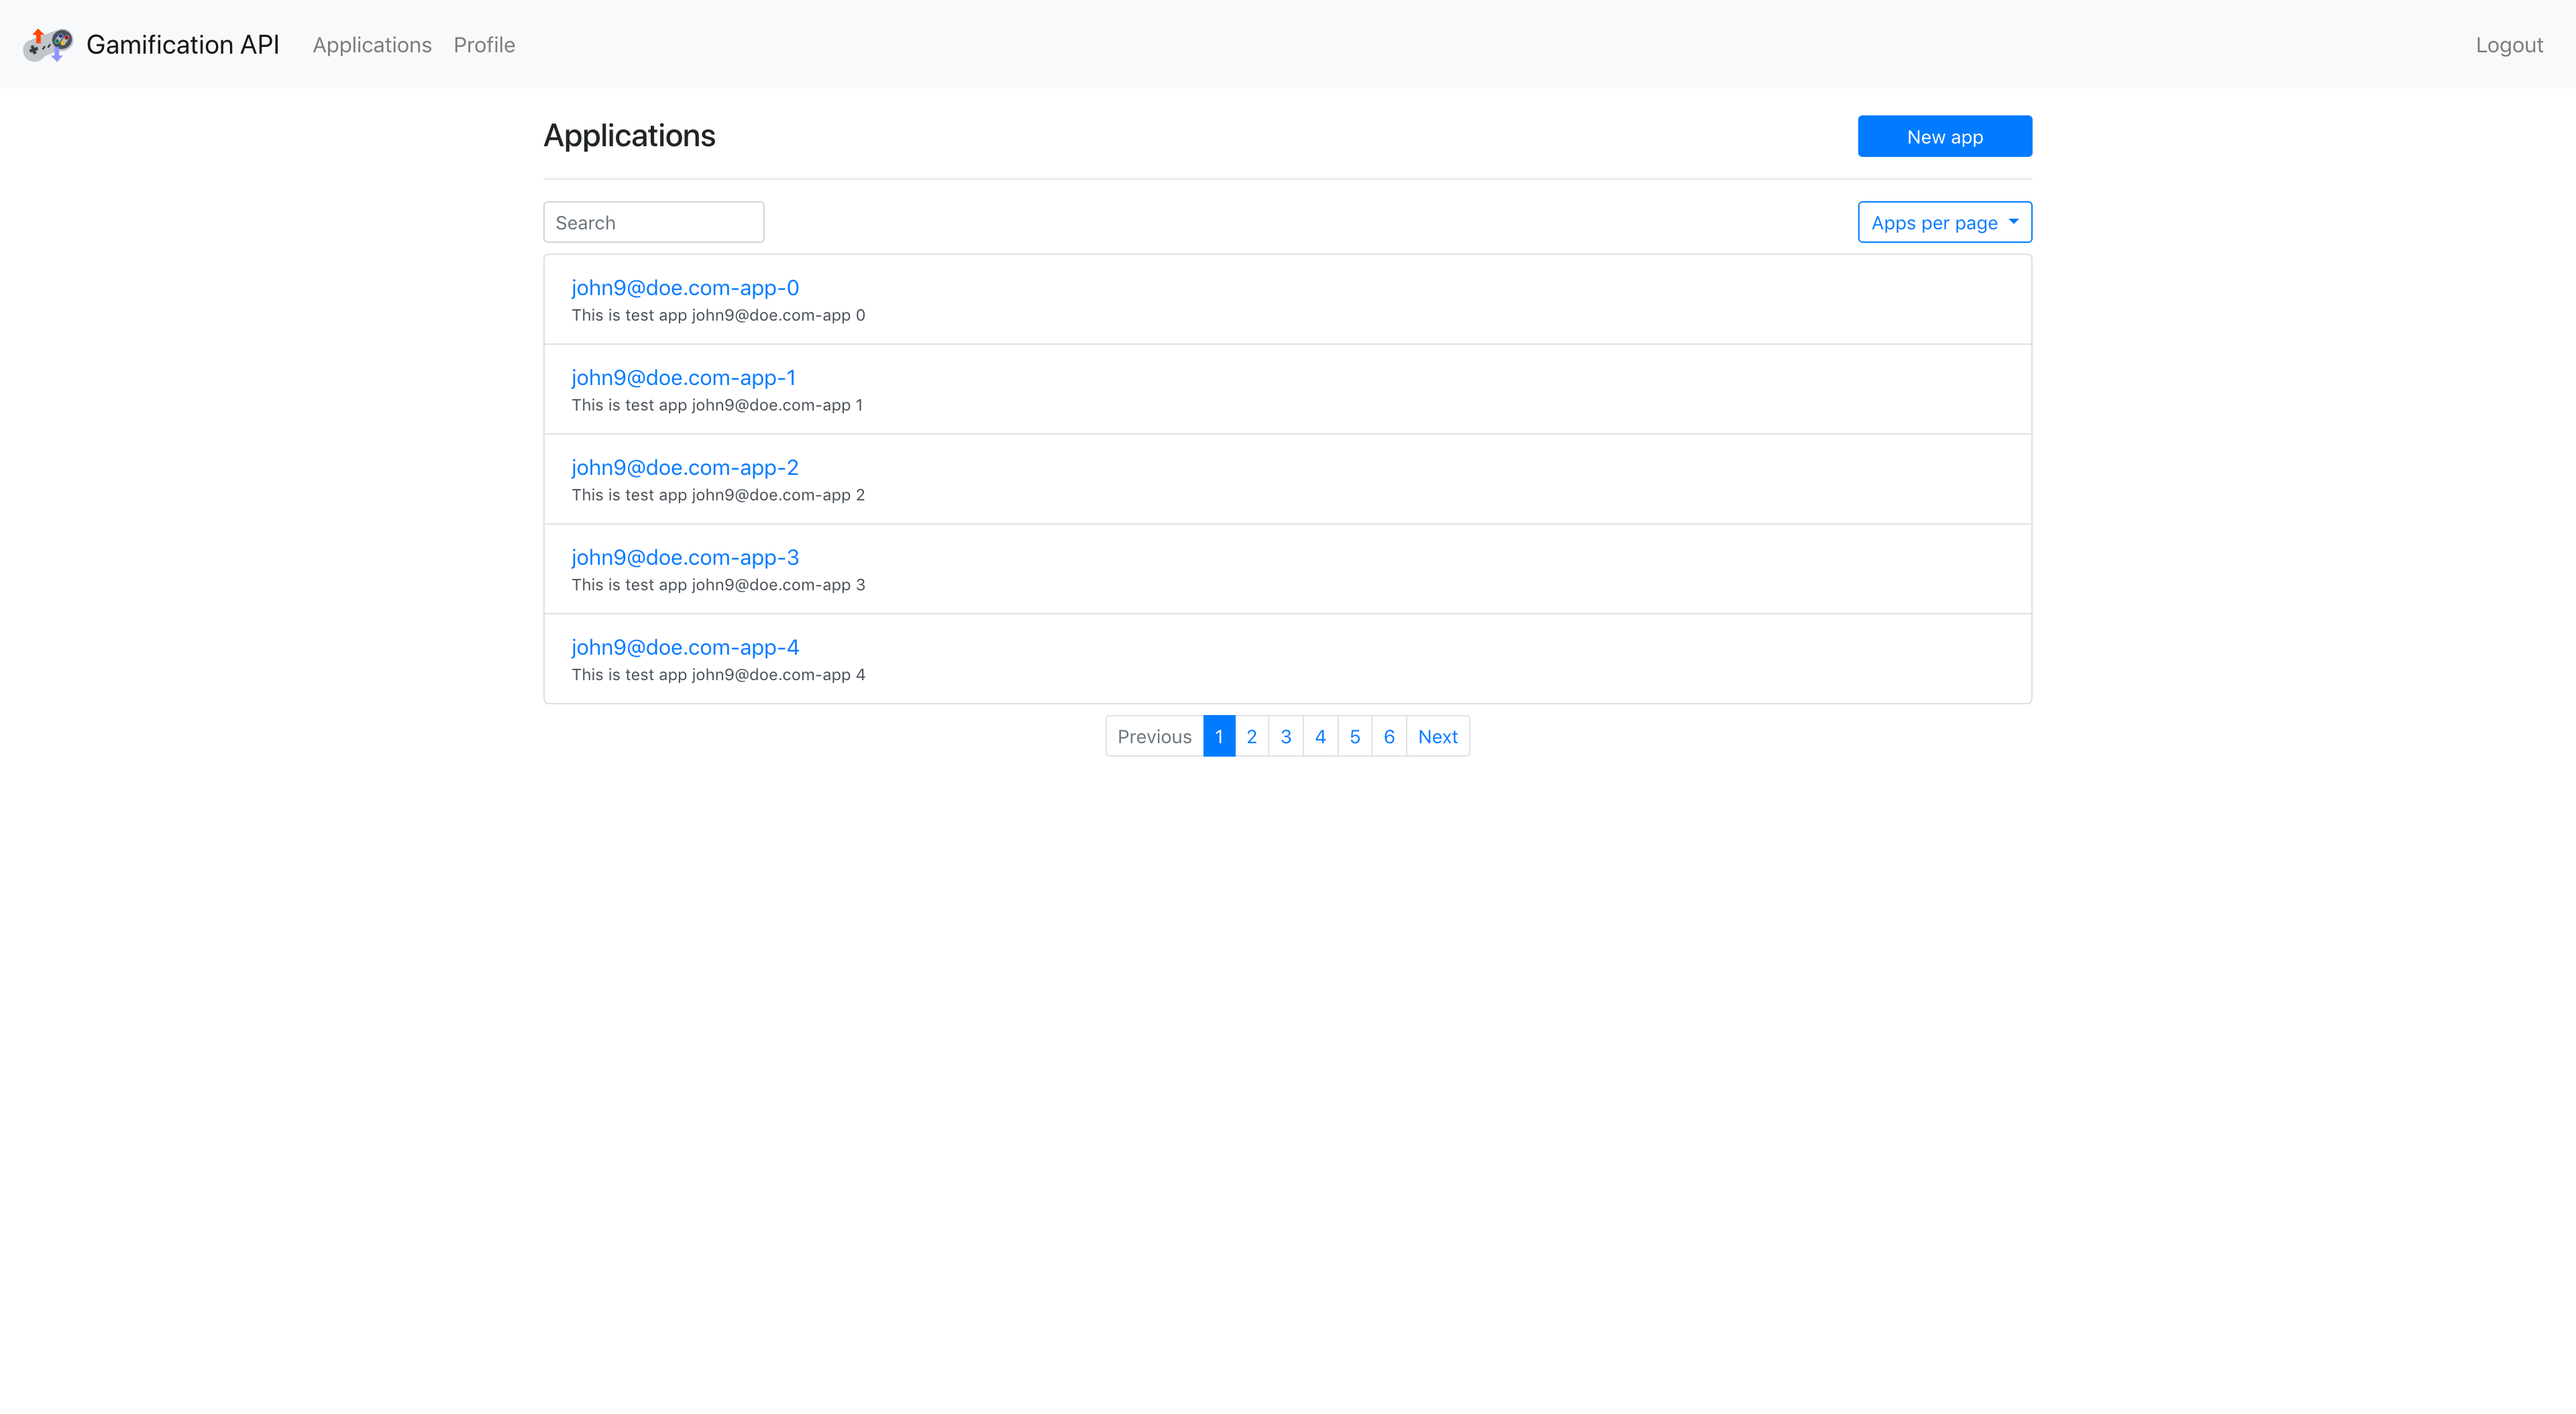
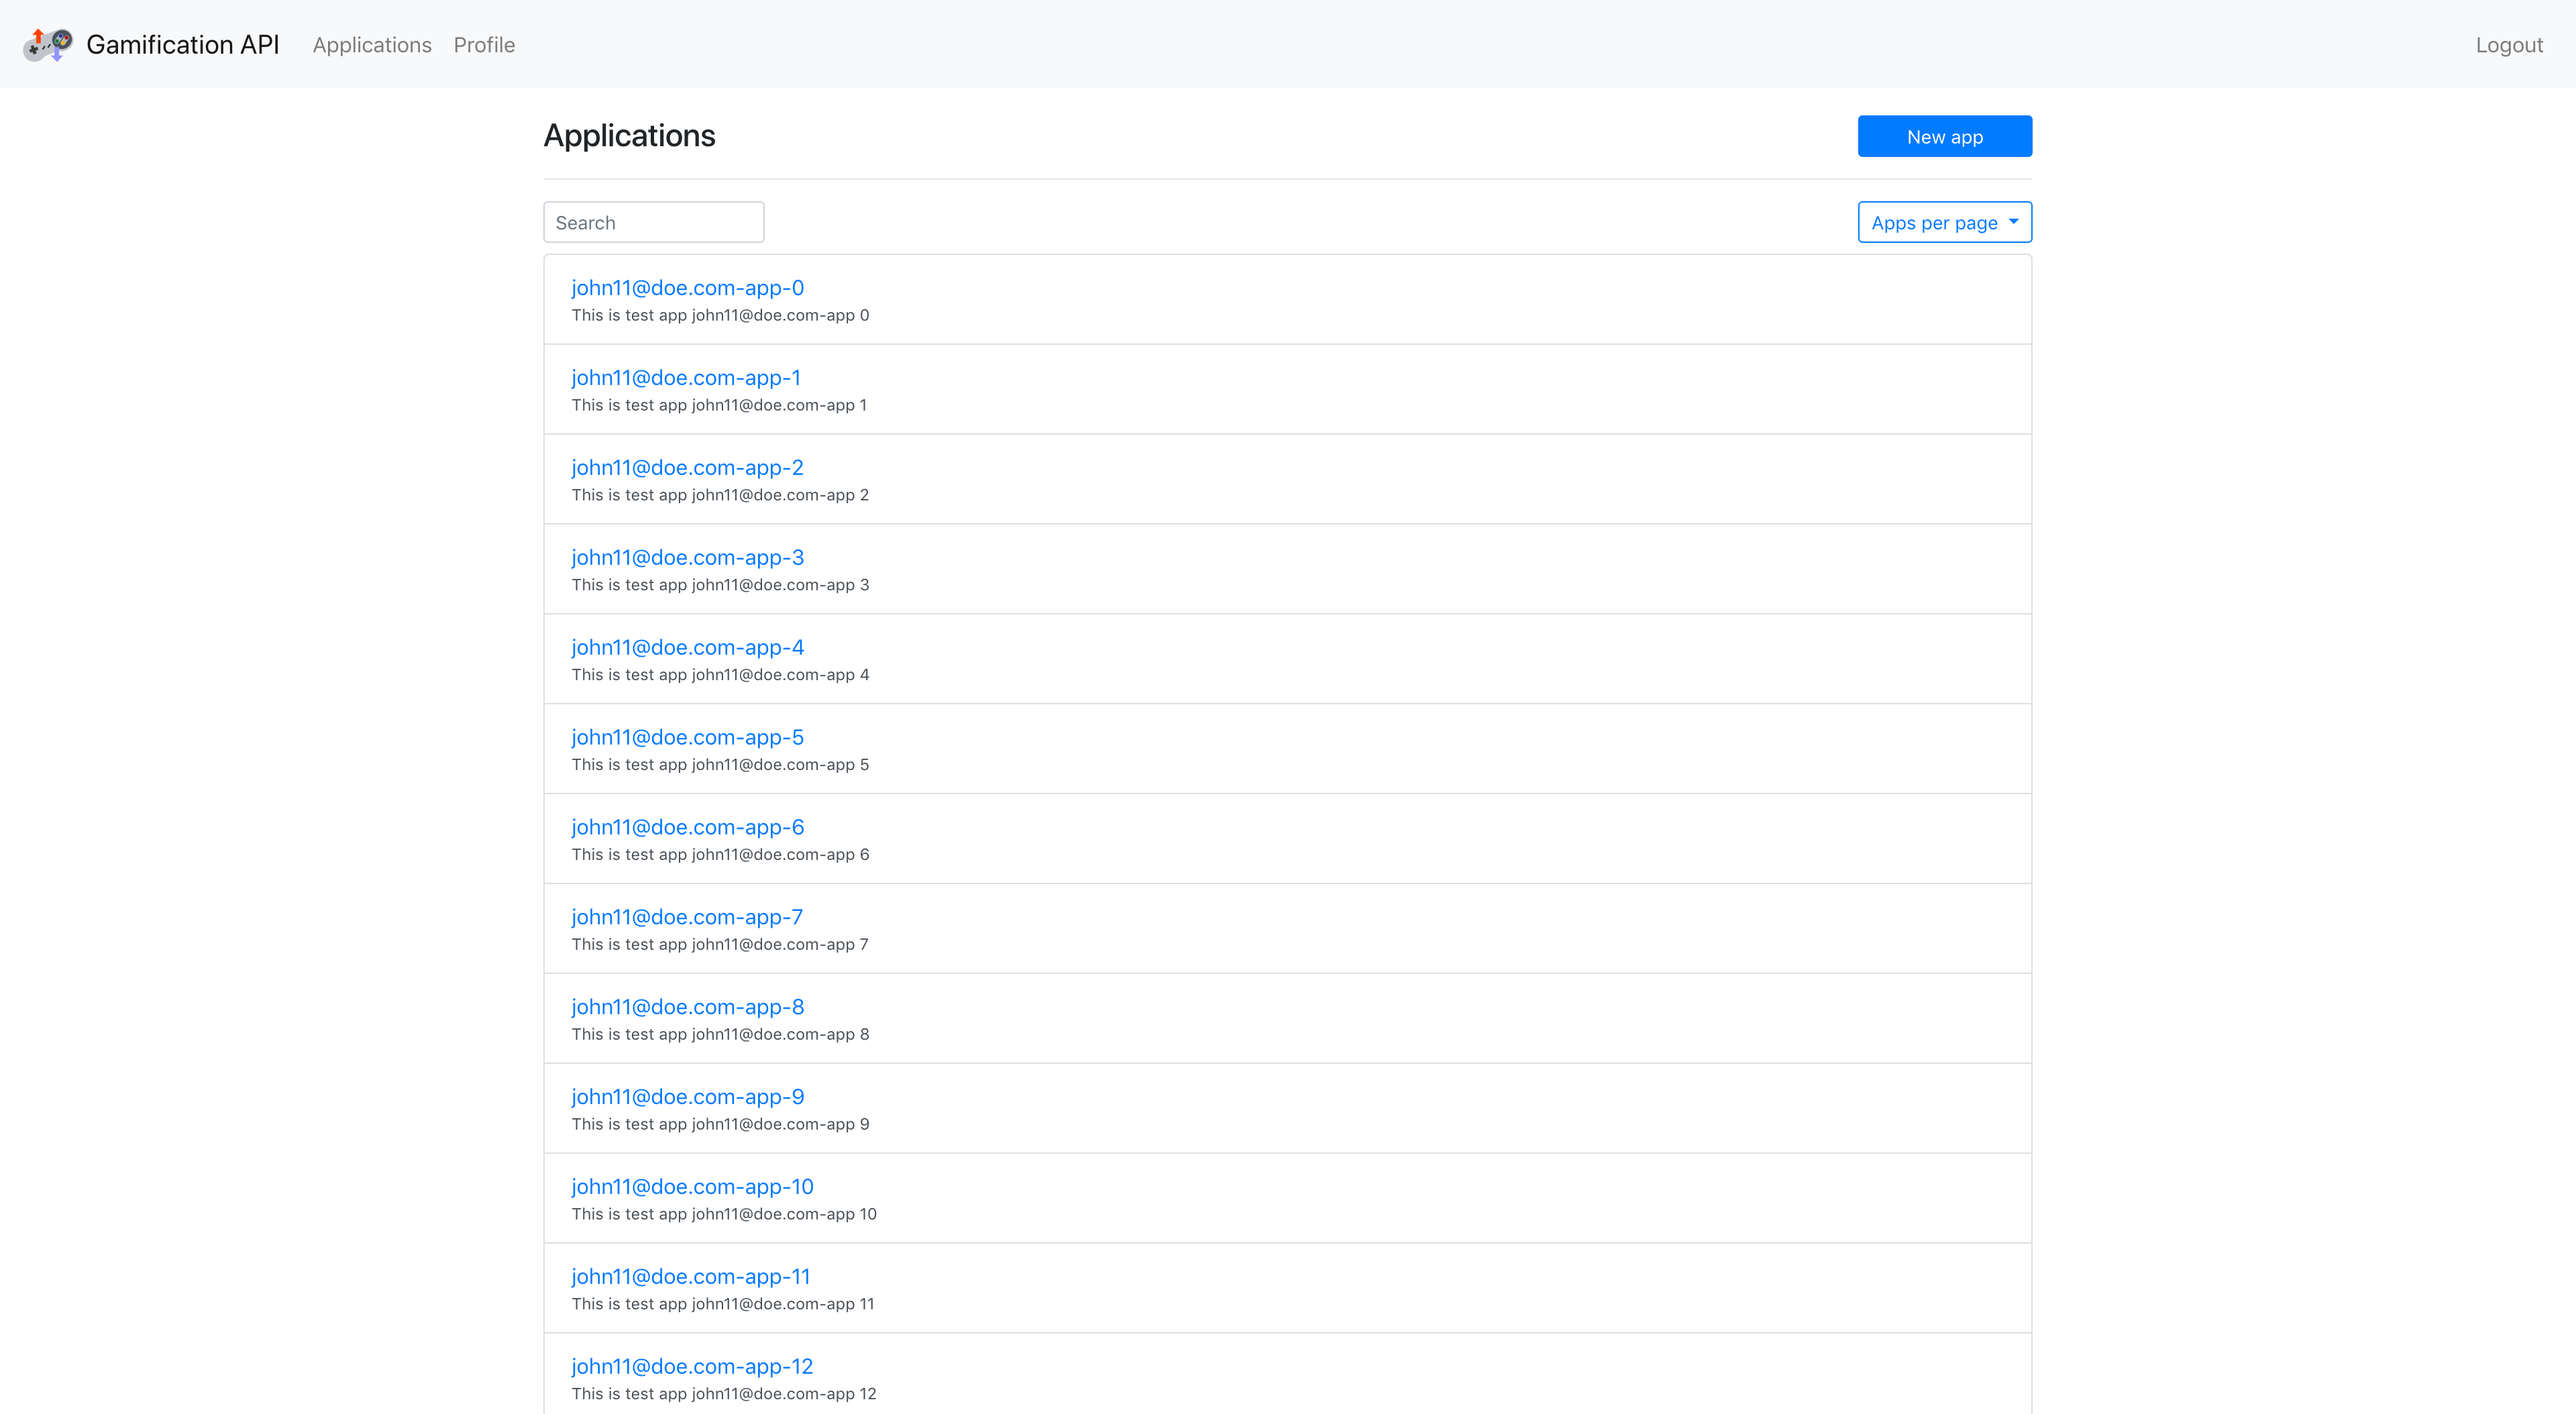
pagination

diff --git a/testing-functional/functional_test.js b/testing-functional/functional_test.js
@@ -3,7 +3,7 @@ Feature('First Test')
 
 const firstname = 'john'
 const lastname = 'doe'
-const email = 'john9@doe.com'
+const email = 'john11@doe.com'
 const password = '1234567'
 const appName = `${email}-app`
 
